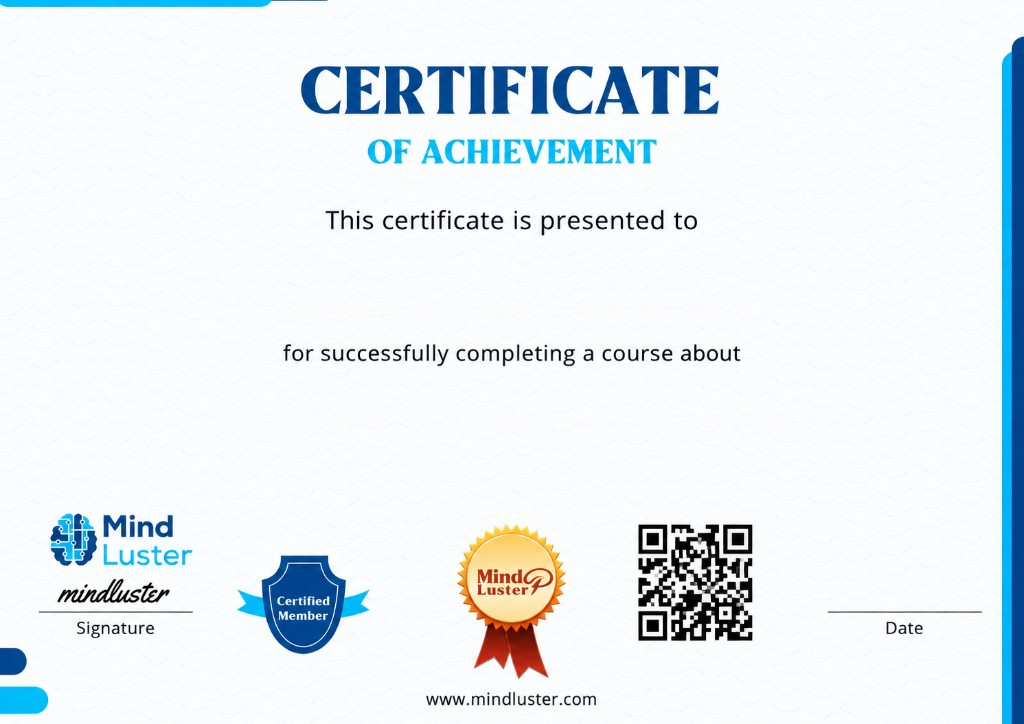
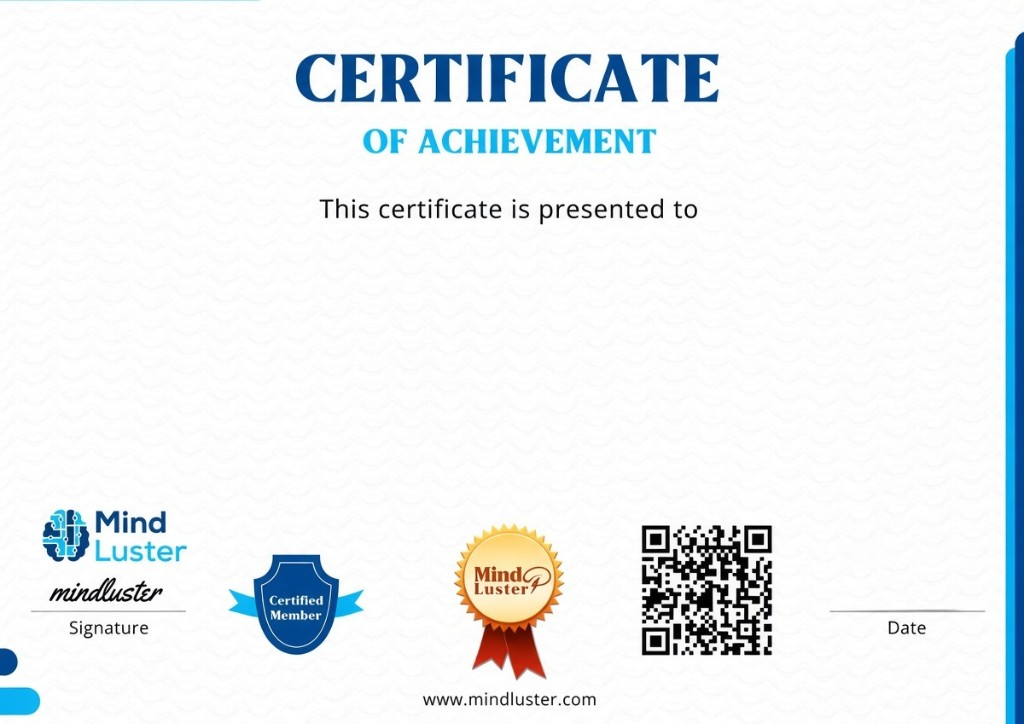
v2

diff --git a/src/defaultLayout.ts b/src/defaultLayout.ts
@@ -1,5 +1,5 @@
 import { fontStack } from './lib/fonts'
-import { CAP_CENTER, LINE_HEIGHT } from './lib/layout'
+import { CAP_CENTER, LINE_HEIGHT, type LaidOutText } from './lib/layout'
 import type { FieldId, TemplateConfig, TextAlign, TextElement } from './types'
 
 /** Pixel size of public/certificate-template.png. Defaults below are measured in these pixels. */
@@ -11,17 +11,15 @@ export const TEMPLATE: TemplateConfig = {
   referenceSrc: `${import.meta.env.BASE_URL}certificate-reference.png`,
   designWidth: DESIGN_WIDTH,
   designHeight: DESIGN_HEIGHT,
-  qrArea: { x: 630 / DESIGN_WIDTH, y: 516 / DESIGN_HEIGHT, width: 130 / DESIGN_WIDTH, height: 130 / DESIGN_HEIGHT },
+  qrArea: { x: 643 / DESIGN_WIDTH, y: 528 / DESIGN_HEIGHT, width: 127 / DESIGN_WIDTH, height: 127 / DESIGN_HEIGHT },
   qrPatchSource: { x: 830 / DESIGN_WIDTH, y: 350 / DESIGN_HEIGHT },
   pageWidthMm: 297,
 }
 
-interface ElementSpec {
-  id: FieldId
-  name: string
+interface PlaceSpec {
   /** Left edge, center or right edge of the box, depending on `align`. */
   anchorX: number
-  /** Baseline the text should sit on, e.g. the baseline of a printed label. */
+  /** Baseline the text should sit on. */
   baseline: number
   width: number
   height: number
@@ -34,12 +32,11 @@ interface ElementSpec {
   lines?: number
 }
 
-function element(spec: ElementSpec): TextElement {
+function place(spec: PlaceSpec): LaidOutText {
   const extra = (((spec.lines ?? 1) - 1) * spec.fontSize * LINE_HEIGHT) / 2
   const top = spec.baseline + extra - spec.height / 2 - CAP_CENTER * spec.fontSize
   return {
-    id: spec.id,
-    name: spec.name,
+    id: 'text',
     x: spec.anchorX / DESIGN_WIDTH,
     y: top / DESIGN_HEIGHT,
     width: spec.width / DESIGN_WIDTH,
@@ -51,37 +48,80 @@ function element(spec: ElementSpec): TextElement {
     color: spec.color,
     letterSpacing: 0,
     shrinkToFit: true,
-    locked: false,
   }
 }
 
+function element(spec: PlaceSpec & { id: FieldId; name: string }): TextElement {
+  return { ...place(spec), id: spec.id, name: spec.name, locked: false }
+}
+
+export interface StaticLine extends LaidOutText {
+  text: string
+}
+
 /**
- * Initial field layout, measured on the line-free template (1024×724).
- * The background prints neither the metadata labels nor the old underlines, so the name, the course
- * and the three metadata lines are each centered. Start date, certificate number and duration include
- * their labels in the drawn text.
+ * Lines printed on every certificate. They are not recipient fields.
+ * Baselines are on the blank template, which sits 5px higher than the filled reference.
+ */
+export const STATIC_LINES: StaticLine[] = [
+  {
+    ...place({
+      anchorX: 512,
+      baseline: 333,
+      width: 720,
+      height: 32,
+      align: 'center',
+      font: 'Segoe UI',
+      fontSize: 24,
+      fontWeight: 400,
+      color: '#1a1a1a',
+    }),
+    id: 'intro',
+    text: 'for successfully completing a Course about',
+  },
+  {
+    ...place({
+      anchorX: 512,
+      baseline: 454,
+      width: 420,
+      height: 32,
+      align: 'center',
+      font: 'Segoe UI',
+      fontSize: 27,
+      fontWeight: 400,
+      color: '#808080',
+    }),
+    id: 'certifiedLabel',
+    text: 'Certified No.',
+  },
+]
+
+/**
+ * Initial field layout, measured against the filled reference (1024×724) and shifted up 5px
+ * so the gaps match the blank template's header. The issue date stays on the printed rule.
+ * Font sizes are the ones whose rendered width matches that reference line.
  */
 export const DEFAULT_ELEMENTS: TextElement[] = [
   element({
     id: 'recipientName',
     name: 'Recipient Name',
     anchorX: 512,
-    baseline: 286,
-    width: 640,
-    height: 48,
+    baseline: 279,
+    width: 700,
+    height: 40,
     align: 'center',
     font: 'Arial',
     fontSize: 30,
     fontWeight: 400,
-    color: '#5a2728',
+    color: '#5c3030',
   }),
   element({
     id: 'courseName',
     name: 'Course Name',
     anchorX: 512,
-    baseline: 402,
-    width: 700,
-    height: 40,
+    baseline: 384,
+    width: 760,
+    height: 36,
     align: 'center',
     font: 'Segoe UI',
     fontSize: 26,
@@ -92,53 +132,52 @@ export const DEFAULT_ELEMENTS: TextElement[] = [
     id: 'courseStartDate',
     name: 'Course Start Date',
     anchorX: 512,
-    baseline: 436,
+    baseline: 415,
     width: 700,
-    height: 26,
+    height: 20,
     align: 'center',
     font: 'Segoe UI',
     fontSize: 16,
     fontWeight: 400,
-    color: '#222326',
+    color: '#222222',
   }),
   element({
     id: 'certificateNumber',
     name: 'Certificate Number',
     anchorX: 512,
-    baseline: 464,
-    width: 700,
-    height: 52,
-    lines: 2,
+    baseline: 489,
+    width: 420,
+    height: 30,
     align: 'center',
     font: 'Segoe UI',
-    fontSize: 17,
+    fontSize: 26,
     fontWeight: 400,
-    color: '#7a7a7b',
+    color: '#1a1a1a',
   }),
   element({
     id: 'courseDuration',
     name: 'Course Duration',
     anchorX: 512,
-    baseline: 510,
+    baseline: 512,
     width: 700,
-    height: 26,
+    height: 18,
     align: 'center',
     font: 'Segoe UI',
-    fontSize: 16,
+    fontSize: 15,
     fontWeight: 700,
-    color: '#0e3981',
+    color: '#286090',
   }),
   element({
     id: 'issueDate',
     name: 'Issue Date',
-    anchorX: 904.5,
-    baseline: 592,
-    width: 154,
-    height: 28,
+    anchorX: 908,
+    baseline: 590,
+    width: 160,
+    height: 26,
     align: 'center',
     font: 'Segoe UI',
-    fontSize: 18,
+    fontSize: 22,
     fontWeight: 400,
-    color: '#1d1e22',
+    color: '#1a1a1a',
   }),
 ]

diff --git a/src/lib/layout.ts b/src/lib/layout.ts
@@ -1,4 +1,4 @@
-import type { FieldId, TextAlign, TextElement } from '../types'
+import type { TextAlign, TextElement } from '../types'
 
 /**
  * Distance from the baseline to the vertical middle of capital letters, as a fraction of the font size.
@@ -22,8 +22,24 @@ export interface TextLine {
   baseline: number
 }
 
+/** Geometry and style shared by recipient fields and the fixed lines drawn on every certificate. */
+export type LaidOutText = Pick<
+  TextElement,
+  | 'x'
+  | 'y'
+  | 'width'
+  | 'height'
+  | 'align'
+  | 'fontFamily'
+  | 'fontSize'
+  | 'fontWeight'
+  | 'color'
+  | 'letterSpacing'
+  | 'shrinkToFit'
+> & { id: string }
+
 export interface TextRun {
-  id: FieldId
+  id: string
   text: string
   font: string
   color: string
@@ -42,7 +58,7 @@ export function anchorFraction(align: TextAlign): number {
 }
 
 /** The element's box in pixels on a certificate rendered at `width` × `height`. */
-export function elementBox(el: TextElement, width: number, height: number): PixelBox {
+export function elementBox(el: Pick<LaidOutText, 'x' | 'y' | 'width' | 'height' | 'align'>, width: number, height: number): PixelBox {
   const boxWidth = el.width * width
   return {
     left: el.x * width - boxWidth * anchorFraction(el.align),
@@ -96,7 +112,7 @@ function measurer(): CanvasRenderingContext2D {
  * Positions one text element on a certificate rendered at `width` × `height`.
  * Shrink-to-fit is computed at the template's design size, so every render size shrinks text identically.
  */
-export function layoutText(el: TextElement, text: string, width: number, height: number, designWidth: number): TextRun {
+export function layoutText(el: LaidOutText, text: string, width: number, height: number, designWidth: number): TextRun {
   const ctx = measurer()
   const scale = width / designWidth
   const box = elementBox(el, width, height)

diff --git a/src/App.tsx b/src/App.tsx
@@ -42,21 +42,19 @@ import type {
 
 /**
  * Restores a stored layout, filling in any properties missing from older sessions.
- * Layouts saved against the previous template are left-aligned value slots, so they are discarded.
+ * Left-aligned value slots belong to the previous template and are discarded.
  */
 function reviveLayout(stored: unknown): TextElement[] {
   if (!Array.isArray(stored)) return DEFAULT_ELEMENTS
   const startDate = stored.find((s) => s?.id === 'courseStartDate')
-  const certificateNumber = stored.find((s) => s?.id === 'certificateNumber')
-  // Left-aligned slots belong to the labeled template. A short box is the one-line number.
-  if (startDate?.align === 'left' || (certificateNumber?.height ?? 0) < 0.055) return DEFAULT_ELEMENTS
+  if (startDate?.align === 'left') return DEFAULT_ELEMENTS
   return DEFAULT_ELEMENTS.map((d) => ({ ...d, ...(stored.find((s) => s?.id === d.id) ?? {}) }))
 }
 
 const DEFAULT_VIEW: EditorView = { zoom: 1, showGrid: false, showBounds: true, showReference: false }
 
 export default function App() {
-  const [elements, setElements] = useSessionState<TextElement[]>('certgen.v3.layout', DEFAULT_ELEMENTS, reviveLayout)
+  const [elements, setElements] = useSessionState<TextElement[]>('certgen.v4.layout', DEFAULT_ELEMENTS, reviveLayout)
   const [recipients, setRecipients] = useSessionState<Recipient[]>('certgen.v1.recipients', [])
   const [globalIssueDate, setGlobalIssueDate] = useSessionState('certgen.v1.issueDate', todayIso)
   const [dateFormat, setDateFormat] = useSessionState<DateFormat>('certgen.v1.dateFormat', 'YYYY-MM-DD')

diff --git a/src/lib/recipients.ts b/src/lib/recipients.ts
@@ -67,20 +67,19 @@ export function effectiveIssueDate(recipient: Recipient, globalIssueDate: string
 }
 
 /**
- * The new template does not print these labels, so the drawn line includes them.
+ * The template does not print these labels, so the drawn line includes them.
+ * "Certified No." is a fixed line of its own; the number is drawn underneath with no prefix.
  * The editor still edits the raw value; `stripDrawnLabel` turns the drawn placeholder back into one.
  */
 const DRAWN_LABEL: Partial<Record<FieldId, string>> = {
   courseStartDate: 'Course Start Date:',
-  certificateNumber: 'Certificate Number:',
-  courseDuration: 'Course Duration:',
+  courseDuration: 'Course Duration',
 }
 
 function drawLabeled(id: FieldId, value: string): string {
   const label = DRAWN_LABEL[id]
   if (!label || !value) return value
-  // The number sits on its own line under the label, as on the reference certificate.
-  return id === 'certificateNumber' ? `${label}\n${value}` : `${label} ${value}`
+  return `${label} ${value}`
 }
 
 export function stripDrawnLabel(id: FieldId, drawn: string): string {

diff --git a/src/lib/drawCertificate.ts b/src/lib/drawCertificate.ts
@@ -1,3 +1,4 @@
+import { STATIC_LINES } from '../defaultLayout'
 import type { FieldValues, TemplateConfig, TextElement } from '../types'
 import { graphemes, layoutText, type TextRun } from './layout'
 
@@ -37,6 +38,9 @@ export function drawCertificate(ctx: CanvasRenderingContext2D, scene: Certificat
     )
   }
 
+  for (const line of STATIC_LINES) {
+    drawTextRun(ctx, layoutText(line, line.text, width, height, config.designWidth))
+  }
   for (const el of scene.elements) {
     drawTextRun(ctx, layoutText(el, scene.values[el.id] ?? '', width, height, config.designWidth))
   }
